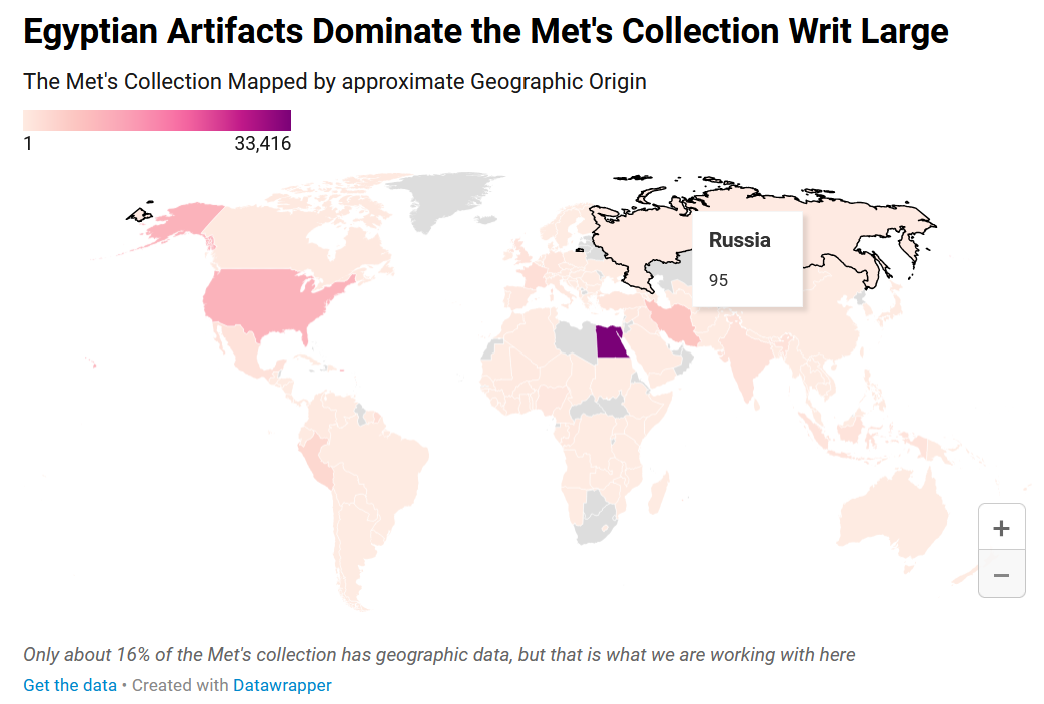
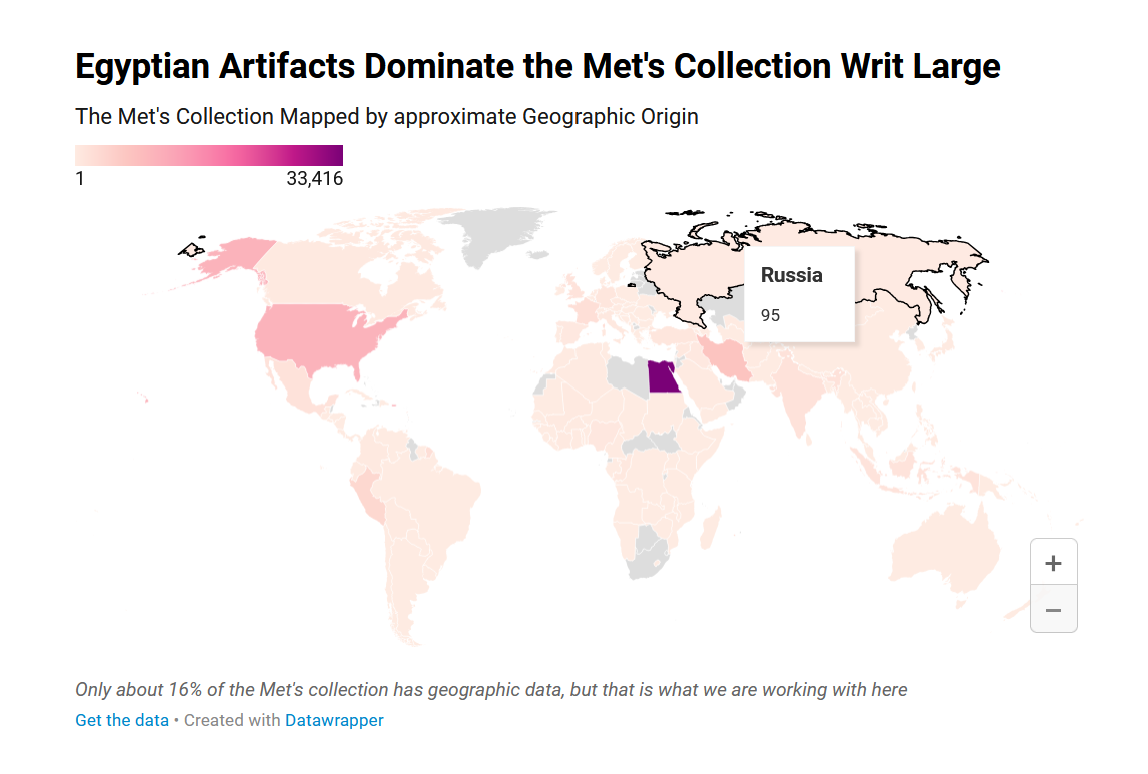
Adjust Archive thumbnails (Met, Infosec, FP, Japanese Labor)

diff --git a/index.html b/index.html
@@ -555,7 +555,7 @@
               <span class="archive-desc">A small investigation into the geographic origins of the Met's art.</span>
             </a>
             <div class="archive-card">
-              <img src="Screenshot 2026-06-14 121333.png" alt="Infosec Daily Threat Report thumbnail">
+              <img src="Screenshot 2026-06-14 121333.png" alt="Infosec Daily Threat Report thumbnail" style="object-position: 50% 38%;">
               <span class="archive-title">Infosec Daily Threat Report</span>
               <span class="archive-date">02/08/25 – present</span>
               <span class="archive-tools">technology | newsletter</span>
@@ -579,7 +579,7 @@
               <span class="archive-desc">Database of games made by unionized workers.</span>
             </a>
             <div class="archive-card">
-              <img src="FP for Academia.png" alt="FP for Academia thumbnail">
+              <img src="FP for Academia.png" alt="FP for Academia thumbnail" style="object-position: 50% 0%;">
               <span class="archive-title">FP for Academia</span>
               <span class="archive-date">04/21/24</span>
               <span class="archive-tools">wordpress</span>
